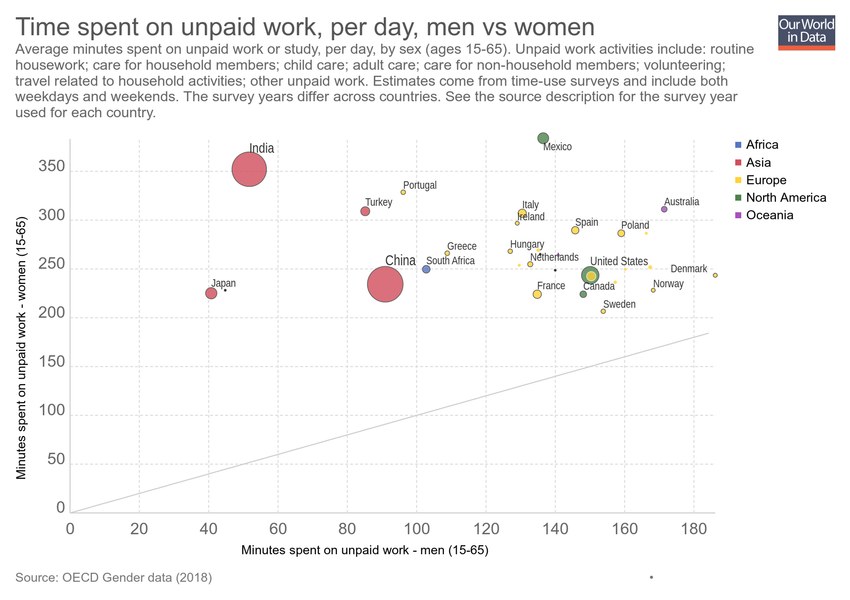
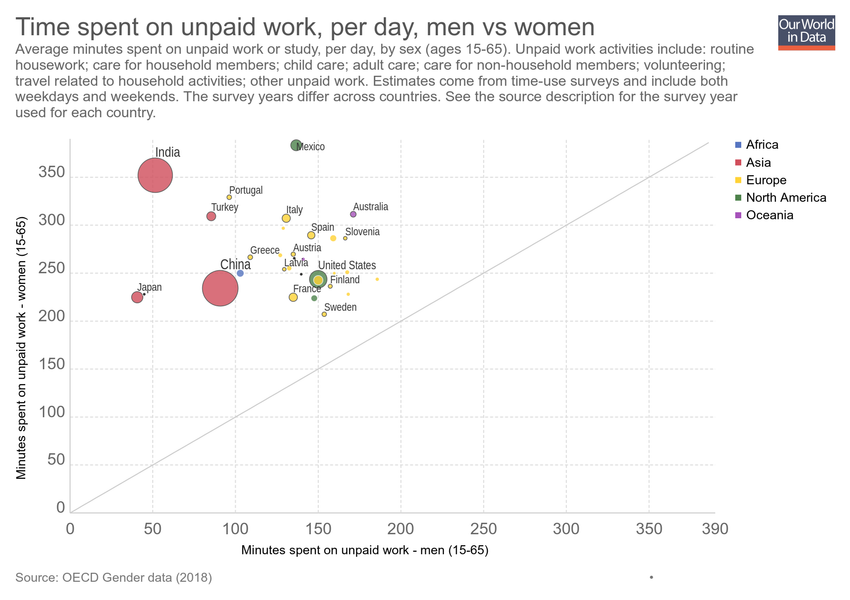
Updating chart minutes-spent-on-unpaid-work

diff --git a/grapher/minutes-spent-on-unpaid-work.html b/grapher/minutes-spent-on-unpaid-work.html
@@ -1,4 +1,4 @@
-<!doctype html><html><head><meta name="viewport" content="width=device-width, initial-scale=1" /><title>Time spent on unpaid work, per day, men vs women - Our World in Data</title><meta name="description" content="Average minutes spent on unpaid work or study, per day, by sex (ages 15-65). Unpaid work activities include: routine housework; care for household members; child care; adult care; care for non-household members; volunteering; travel related to household activities; other unpaid work. Estimates come from time-use surveys and include both weekdays and weekends. The survey years differ across countries. See the source description for the survey year used for each country." /><link rel="canonical" href="https://ourworldindata.org/grapher/minutes-spent-on-unpaid-work" /><meta property="fb:app_id" content="1149943818390250" /><meta property="og:url" content="https://ourworldindata.org/grapher/minutes-spent-on-unpaid-work" /><meta property="og:title" content="Time spent on unpaid work, per day, men vs women" /><meta property="og:description" content="Average minutes spent on unpaid work or study, per day, by sex (ages 15-65). Unpaid work activities include: routine housework; care for household members; child care; adult care; care for non-household members; volunteering; travel related to household activities; other unpaid work. Estimates come from time-use surveys and include both weekdays and weekends. The survey years differ across countries. See the source description for the survey year used for each country." /><meta property="og:image" content="https://ourworldindata.org/grapher/exports/minutes-spent-on-unpaid-work.png?v=10" /><meta property="og:image:width" content="850" /><meta property="og:image:height" content="600" /><meta property="og:site_name" content="Our World in Data" /><meta name="twitter:card" content="summary_large_image" /><meta name="twitter:site" content="@OurWorldInData" /><meta name="twitter:creator" content="@OurWorldInData" /><meta name="twitter:title" content="Time spent on unpaid work, per day, men vs women" /><meta name="twitter:description" content="Average minutes spent on unpaid work or study, per day, by sex (ages 15-65). Unpaid work activities include: routine housework; care for household members; child care; adult care; care for non-household members; volunteering; travel related to household activities; other unpaid work. Estimates come from time-use surveys and include both weekdays and weekends. The survey years differ across countries. See the source description for the survey year used for each country." /><meta name="twitter:image" content="https://ourworldindata.org/grapher/exports/minutes-spent-on-unpaid-work.png?v=10" /><style>
+<!doctype html><html><head><meta name="viewport" content="width=device-width, initial-scale=1" /><title>Time spent on unpaid work, per day, men vs women - Our World in Data</title><meta name="description" content="Average minutes spent on unpaid work or study, per day, by sex (ages 15-65). Unpaid work activities include: routine housework; care for household members; child care; adult care; care for non-household members; volunteering; travel related to household activities; other unpaid work. Estimates come from time-use surveys and include both weekdays and weekends. The survey years differ across countries. See the source description for the survey year used for each country." /><link rel="canonical" href="https://ourworldindata.org/grapher/minutes-spent-on-unpaid-work" /><meta property="fb:app_id" content="1149943818390250" /><meta property="og:url" content="https://ourworldindata.org/grapher/minutes-spent-on-unpaid-work" /><meta property="og:title" content="Time spent on unpaid work, per day, men vs women" /><meta property="og:description" content="Average minutes spent on unpaid work or study, per day, by sex (ages 15-65). Unpaid work activities include: routine housework; care for household members; child care; adult care; care for non-household members; volunteering; travel related to household activities; other unpaid work. Estimates come from time-use surveys and include both weekdays and weekends. The survey years differ across countries. See the source description for the survey year used for each country." /><meta property="og:image" content="https://ourworldindata.org/grapher/exports/minutes-spent-on-unpaid-work.png?v=11" /><meta property="og:image:width" content="850" /><meta property="og:image:height" content="600" /><meta property="og:site_name" content="Our World in Data" /><meta name="twitter:card" content="summary_large_image" /><meta name="twitter:site" content="@OurWorldInData" /><meta name="twitter:creator" content="@OurWorldInData" /><meta name="twitter:title" content="Time spent on unpaid work, per day, men vs women" /><meta name="twitter:description" content="Average minutes spent on unpaid work or study, per day, by sex (ages 15-65). Unpaid work activities include: routine housework; care for household members; child care; adult care; care for non-household members; volunteering; travel related to household activities; other unpaid work. Estimates come from time-use surveys and include both weekdays and weekends. The survey years differ across countries. See the source description for the survey year used for each country." /><meta name="twitter:image" content="https://ourworldindata.org/grapher/exports/minutes-spent-on-unpaid-work.png?v=11" /><style>
         html, body {
             height: 100%;
             margin: 0;
@@ -20,8 +20,8 @@
         }
     </style><noscript><style>
                     figure { display: none !important; }
-                </style></noscript><link rel="stylesheet" href="https://ourworldindata.org/grapher/assets/commons.bundle.dcbbe53805c487d5e57617b10ac73a8a.css" /><link rel="preload" href="/grapher/data/variables/96618+96613+72+123.json?v=10" as="fetch" crossorigin /></head><body class="singleChart"><figure data-grapher-src="/grapher/minutes-spent-on-unpaid-work"></figure><noscript id="fallback"><img src="/grapher/exports/minutes-spent-on-unpaid-work.svg" /><p>Interactive visualization requires JavaScript</p></noscript><script src="https://cdn.polyfill.io/v2/polyfill.min.js?features=es6,fetch"></script><script src="https://ourworldindata.org/grapher/assets/commons.bundle.43d139222ef978d52c09.js"></script><script src="https://ourworldindata.org/grapher/assets/charts.bundle.43d139222ef978d52c09.js"></script><script>
-        var jsonConfig = {"id":2539,"map":{"projection":"World","colorSchemeLabels":[],"colorSchemeValues":[],"colorSchemeMinValue":0,"customNumericColors":[],"customCategoryColors":{},"customCategoryLabels":{},"customHiddenCategories":{}},"tab":"chart","slug":"minutes-spent-on-unpaid-work","type":"ScatterPlot","title":"Time spent on unpaid work, per day, men vs women","xAxis":{"min":0,"scaleType":"linear"},"yAxis":{"min":0,"scaleType":"linear"},"version":10,"subtitle":"Average minutes spent on unpaid work or study, per day, by sex (ages 15-65). Unpaid work activities include: routine housework; care for household members; child care; adult care; care for non-household members; volunteering; travel related to household activities; other unpaid work. Estimates come from time-use surveys and include both weekdays and weekends. The survey years differ across countries. See the source description for the survey year used for each country.","hasMapTab":false,"stackMode":"absolute","dimensions":[{"display":{"name":"Minutes spent on unpaid work - women (15-65)"},"property":"y","variableId":96618},{"display":{"name":"Minutes spent on unpaid work - men (15-65)"},"property":"x","variableId":96613},{"display":{},"property":"size","variableId":72},{"display":{},"property":"color","variableId":123}],"hasChartTab":true,"isPublished":true,"selectedData":[],"comparisonLine":{},"hideTitleAnnotation":true};
+                </style></noscript><link rel="stylesheet" href="https://ourworldindata.org/grapher/assets/commons.bundle.dcbbe53805c487d5e57617b10ac73a8a.css" /><link rel="preload" href="/grapher/data/variables/96618+96613+72+123.json?v=11" as="fetch" crossorigin /></head><body class="singleChart"><figure data-grapher-src="/grapher/minutes-spent-on-unpaid-work"></figure><noscript id="fallback"><img src="/grapher/exports/minutes-spent-on-unpaid-work.svg" /><p>Interactive visualization requires JavaScript</p></noscript><script src="https://cdn.polyfill.io/v2/polyfill.min.js?features=es6,fetch"></script><script src="https://ourworldindata.org/grapher/assets/commons.bundle.43d139222ef978d52c09.js"></script><script src="https://ourworldindata.org/grapher/assets/charts.bundle.43d139222ef978d52c09.js"></script><script>
+        var jsonConfig = {"id":2539,"map":{"projection":"World","colorSchemeLabels":[],"colorSchemeValues":[],"colorSchemeMinValue":0,"customNumericColors":[],"customCategoryColors":{},"customCategoryLabels":{},"customHiddenCategories":{}},"tab":"chart","slug":"minutes-spent-on-unpaid-work","type":"ScatterPlot","title":"Time spent on unpaid work, per day, men vs women","xAxis":{"max":390,"min":0,"scaleType":"linear"},"yAxis":{"max":390,"min":0,"scaleType":"linear"},"version":11,"subtitle":"Average minutes spent on unpaid work or study, per day, by sex (ages 15-65). Unpaid work activities include: routine housework; care for household members; child care; adult care; care for non-household members; volunteering; travel related to household activities; other unpaid work. Estimates come from time-use surveys and include both weekdays and weekends. The survey years differ across countries. See the source description for the survey year used for each country.","hasMapTab":false,"stackMode":"absolute","dimensions":[{"display":{"name":"Minutes spent on unpaid work - women (15-65)"},"property":"y","variableId":96618},{"display":{"name":"Minutes spent on unpaid work - men (15-65)"},"property":"x","variableId":96613},{"display":{},"property":"size","variableId":72},{"display":{},"property":"color","variableId":123}],"hasChartTab":true,"isPublished":true,"selectedData":[],"comparisonLine":{},"hideTitleAnnotation":true};
         var figure = document.getElementsByTagName("figure")[0];
         try {
             window.App = {};
